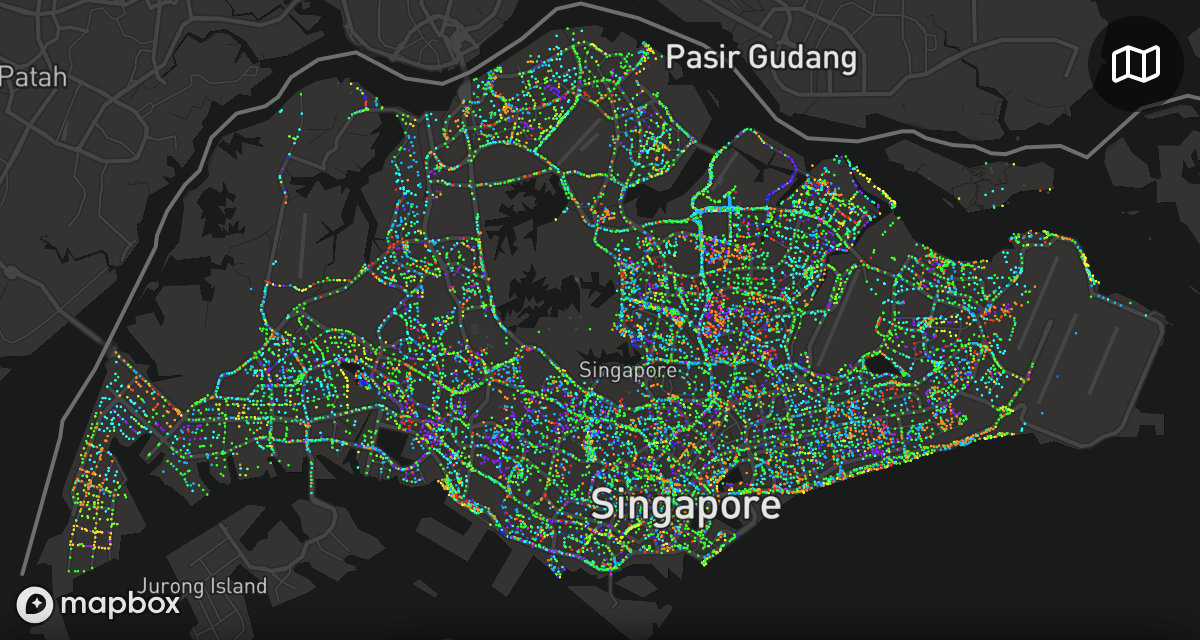
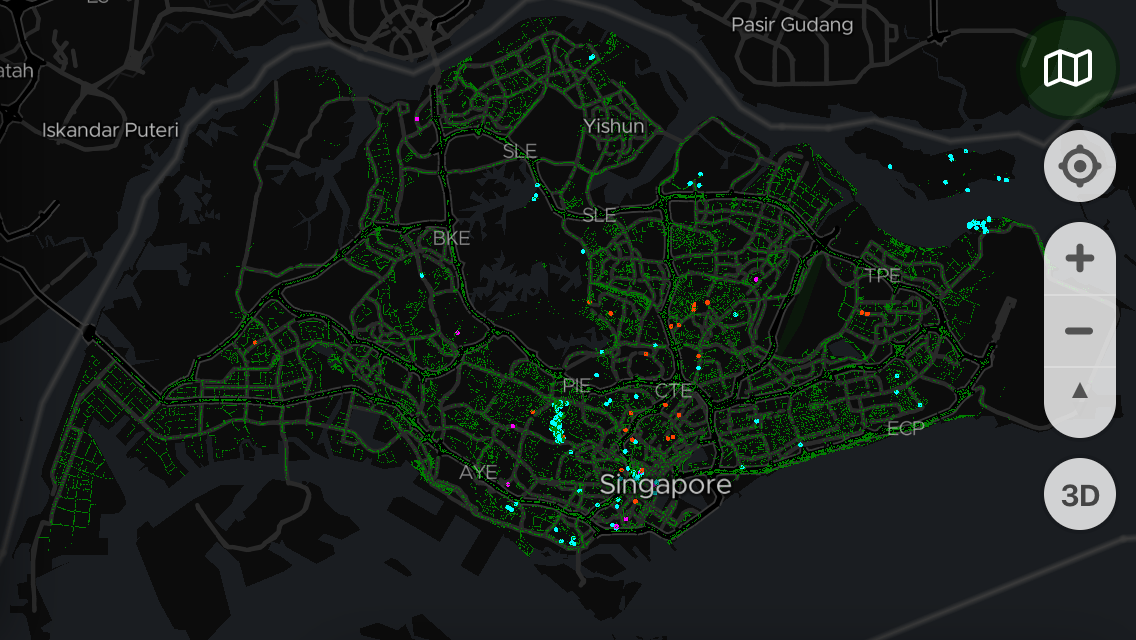
New screenshot and preview

diff --git a/README.md b/README.md
@@ -3,8 +3,7 @@ Explore Trees in Singapore
 
 On [17 March 2018](https://twitter.com/nparksbuzz/status/974857306734120960), [National Parks Board](https://www.nparks.gov.sg/) launched an all-new web site called [Trees.sg](http://trees.sg). On the next day, I started [my journey in getting the data](https://twitter.com/cheeaun/status/975272277926330369) [and visualizing it to my heart's content](https://twitter.com/cheeaun/status/976657582105362432).
 
-![](screenshots/trees-type-map.png)
-![](screenshots/trees-family-map.png)
+![Screenshot of ExploreTrees.SG](screenshots/trees-screenshot.gif)
 
 This is a personal side project to fuel my curiosity on these factors:
 
